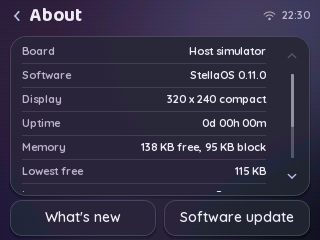
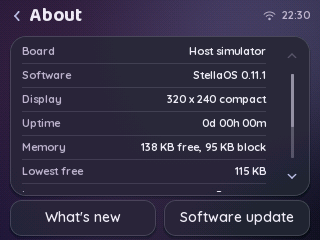
Fix the weather request that was cut off (0.11.1)
Since 0.9.0 the Weather app showed "server error HTTP 400, retrying". The hourly
forecast made the Open-Meteo request 387 characters long, in a 384-byte buffer,
so it was cut to "...&timeformat=unix" and the server refused it. The simulator
never noticed: its fake server does not check the URL.

- WeatherService::buildUrl() builds the request into a 512-byte buffer and
  returns -1 if it does not fit, in which case nothing is sent and the status
  says so (a cut-off request must never go out).
- Regression test: every place's request fits whole with 64 bytes to spare, ends
  with &timeformat=unixtime and asks for the hours; a too-small buffer is refused;
  and on a whole device the request that went out is the complete one.

204 tests. Firmware not rebuilt for this commit beyond the host build (a buffer
size and a helper only). Not run on the device.

Claude-Session: https://claude.ai/code/session_01WrCzyR31TQn5da2N4PH2yW

Changed region(s): [[0.5938, 0.2917, 0.8438, 0.35]]

diff --git a/src/stella/apps/weather_app.cpp b/src/stella/apps/weather_app.cpp
@@ -127,19 +127,29 @@ JobPolicy WeatherService::policy() const {
   return p;
 }
 
+int WeatherService::buildUrl(char *out, size_t capacity, uint8_t place) {
+  if (place >= kPlaceCount) place = 0;
+  const int n = snprintf(out, capacity,
+                         "https://api.open-meteo.com/v1/forecast?latitude=%.2f&longitude=%.2f"
+                         "&current=temperature_2m,apparent_temperature,relative_humidity_2m,weather_code,is_day,wind_speed_10m"
+                         "&daily=weather_code,temperature_2m_max,temperature_2m_min,precipitation_probability_max"
+                         "&hourly=temperature_2m,precipitation_probability,weather_code&forecast_hours=%d"
+                         "&timezone=auto&forecast_days=%d&timeformat=unixtime",
+                         kPlaces[place].latitude, kPlaces[place].longitude, WeatherReport::kHours, WeatherReport::kDays);
+  return n > 0 && (size_t)n < capacity ? n : -1;
+}
+
 JobResult WeatherService::run(uint32_t nowMs) {
   WeatherSnapshot snap = topic_.get();
   const uint8_t place = place_.load() < kPlaceCount ? place_.load() : 0;
   snap.place = place;
   if (!http_ || !http_->available()) return JobResult::Ok;
-  char url[384];
-  snprintf(url, sizeof(url),
-           "https://api.open-meteo.com/v1/forecast?latitude=%.2f&longitude=%.2f"
-           "&current=temperature_2m,apparent_temperature,relative_humidity_2m,weather_code,is_day,wind_speed_10m"
-           "&daily=weather_code,temperature_2m_max,temperature_2m_min,precipitation_probability_max"
-           "&hourly=temperature_2m,precipitation_probability,weather_code&forecast_hours=%d"
-           "&timezone=auto&forecast_days=%d&timeformat=unixtime",
-           kPlaces[place].latitude, kPlaces[place].longitude, WeatherReport::kHours, WeatherReport::kDays);
+  char url[kUrlBytes];
+  if (buildUrl(url, sizeof(url), place) < 0) {  // a bug, not a network problem: say so, send nothing
+    snap.status.failed(nowMs, "Weather request too long");
+    topic_.publish(snap);
+    return JobResult::Failed;
+  }
   parsing_ = WeatherReport{};
   parsing_.place = place;
   seenTemperature_ = seenCode_ = false;

diff --git a/tests/test_flows.cpp b/tests/test_flows.cpp
@@ -265,3 +265,26 @@ TEST(the_next_hours_screen_renders_at_every_size_in_both_clock_styles) {
     }
   }
 }
+
+// Regression: 0.9.0 grew the request to 387 characters in a 384-byte buffer, so
+// it was cut off ("timeformat=unix") and Open-Meteo answered 400 for everyone.
+TEST(every_weather_request_fits_whole_and_is_what_open_meteo_expects) {
+  int count = 0;
+  weatherPlaces(count);
+  for (int place = 0; place < count; ++place) {
+    char url[WeatherService::kUrlBytes];
+    const int n = WeatherService::buildUrl(url, sizeof(url), (uint8_t)place);
+    CHECK(n > 0 && n < (int)sizeof(url) - 64);  // and with room to grow
+    const std::string text(url);
+    CHECK(text.size() >= 20 && text.compare(text.size() - 20, 20, "&timeformat=unixtime") == 0);
+    CHECK(text.find("&hourly=temperature_2m,precipitation_probability,weather_code&forecast_hours=12") != std::string::npos);
+  }
+  // A buffer that is too small is refused, never a cut-off request.
+  char small[200];
+  CHECK_EQ(WeatherService::buildUrl(small, sizeof(small), 0), -1);
+  // On a whole device the request that went out is the complete one.
+  SimSession s(320, 240);
+  const std::string sent = s.dev.http.lastUrl;
+  CHECK(sent.find("open-meteo") != std::string::npos);
+  CHECK(sent.compare(sent.size() - 20, 20, "&timeformat=unixtime") == 0);
+}

diff --git a/src/stella/apps/weather_app.h b/src/stella/apps/weather_app.h
@@ -77,6 +77,10 @@ constexpr uint16_t kWeather = stella::topics::kFirstUser + 0;
 class WeatherService : public Job, public JsonHandler {
  public:
   static constexpr uint32_t kFreshForMs = 45u * 60u * 1000u;
+  static constexpr size_t kUrlBytes = 512;  // the longest request (with room to spare) must fit whole
+  // The Open-Meteo request for a place. Returns its length, or -1 if it does not
+  // fit in `capacity` (it is then never sent: a cut-off request is a 400 error).
+  static int buildUrl(char *out, size_t capacity, uint8_t place);
 
   explicit WeatherService(Topic<WeatherSnapshot> &topic) : topic_(topic) {}
   void attach(HttpService &http) { http_ = &http; }

diff --git a/src/stella/apps/changelog.cpp b/src/stella/apps/changelog.cpp
@@ -7,6 +7,7 @@ namespace {
 // Newest first. Add an entry when STELLA_VERSION goes up; a test checks the
 // top one matches the running version.
 const ChangelogEntry kChangelog[] = {
+    {"0.11.1", {"Weather works again", "(0.9.0 to 0.11.0 sent a", "request that was cut short)", nullptr}},
     {"0.11.0", {"The sky follows the real sun", "Dimming and bedside follow it", nullptr}},
     {"0.10.0",
      {"A changelog after each update", "Choose and order Home apps",

diff --git a/src/stella/runtime/runtime.h b/src/stella/runtime/runtime.h
@@ -27,7 +27,7 @@
 #include "event_queue.h"
 
 #ifndef STELLA_VERSION
-#define STELLA_VERSION "0.11.0"
+#define STELLA_VERSION "0.11.1"
 #endif
 
 namespace stella {

diff --git a/README.md b/README.md
@@ -16,7 +16,7 @@ management and versioned settings.
 
 | | |
 | --- | --- |
-| Version | 0.11.0 (the sky follows the real sunrise and sunset), 0.10.0 (What's new after an update, a customisable Home), 0.9.0 (the next hours and a rain outlook), 0.8.4 (a bigger time on Home), 0.8.3 (sunrise and sunset on Weather), 0.8.2 (Home header with the time, StellaOS name), 0.8.1 (brighter alert LED), 0.8.0: status LED, Find my LED, ambient-light dimming with a calibration (0.7.x added update diagnostics and gentler flash writes; the screen-transition experiment was removed again) |
+| Version | 0.11.1 (the weather request fixed), 0.11.0 (the sky follows the real sunrise and sunset), 0.10.0 (What's new after an update, a customisable Home), 0.9.0 (the next hours and a rain outlook), 0.8.4 (a bigger time on Home), 0.8.3 (sunrise and sunset on Weather), 0.8.2 (Home header with the time, StellaOS name), 0.8.1 (brighter alert LED), 0.8.0: status LED, Find my LED, ambient-light dimming with a calibration (0.7.x added update diagnostics and gentler flash writes; the screen-transition experiment was removed again) |
 | First board | ESP32-2432S028R "Cheap Yellow Display" (2.8" 320x240, XPT2046) |
 | Host tests | 203 tests under ASan + UBSan, incl. touch-driven Wi-Fi onboarding, alarms, the stopwatch and the update flow; screenshots at 320x240 and 480x320 |
 | Firmware build | Compiles with Arduino-ESP32 3.3.12: 1.48 MB flash (75% of a 1.9 MB update slot), 84 KB static RAM (25%) |
